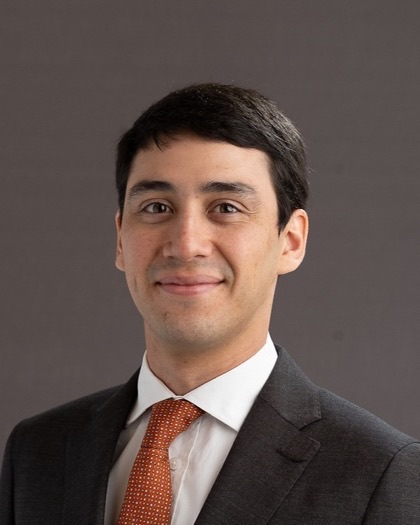
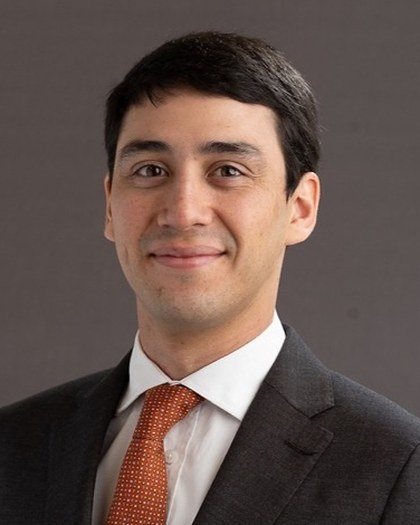
Crop headroom from portrait; note trade fairs project status
Claude-Session: https://claude.ai/code/session_01TM5QMdyceCTdFnCvpTrv52

diff --git a/research.html b/research.html
@@ -45,7 +45,8 @@
   <h3 class="title">Search Costs and Firm-to-Firm Linkages: Experimental Evidence from
     Trade Fairs</h3>
   <p class="meta">with Jie Bai, Lauren Falcao Bergquist, Federico Huneeus, and Yuhei
-    Miyauchi</p>
+    Miyauchi<br>
+    Fieldwork and RCT completed; analysis in progress</p>
 </div>
 
 <h2>Other Writing</h2>
